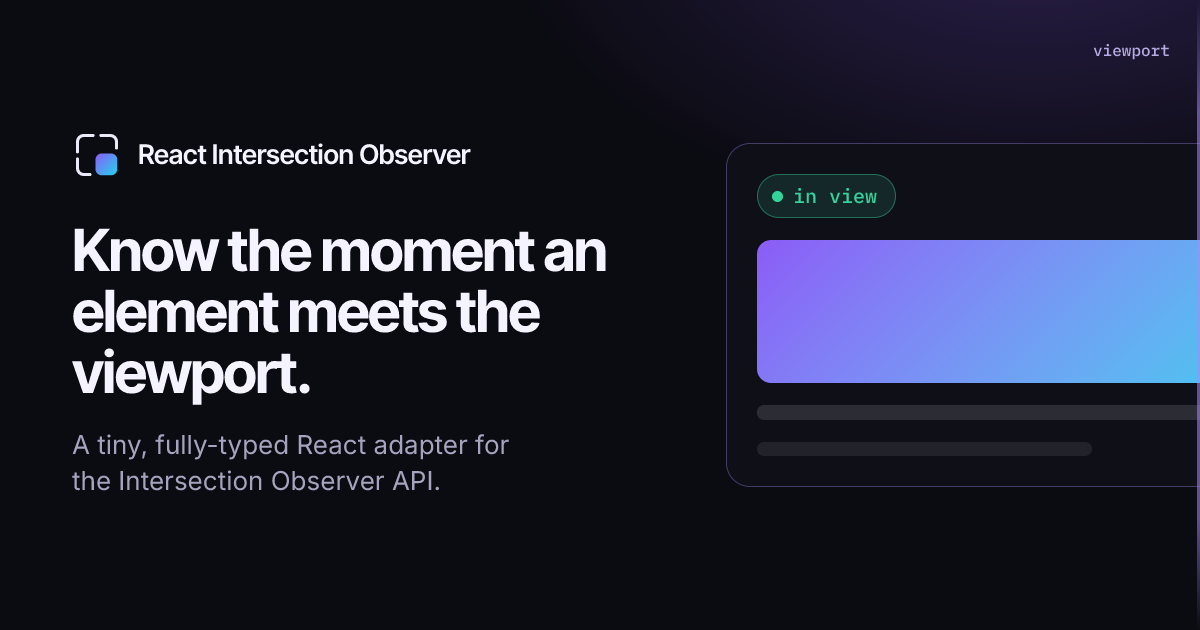
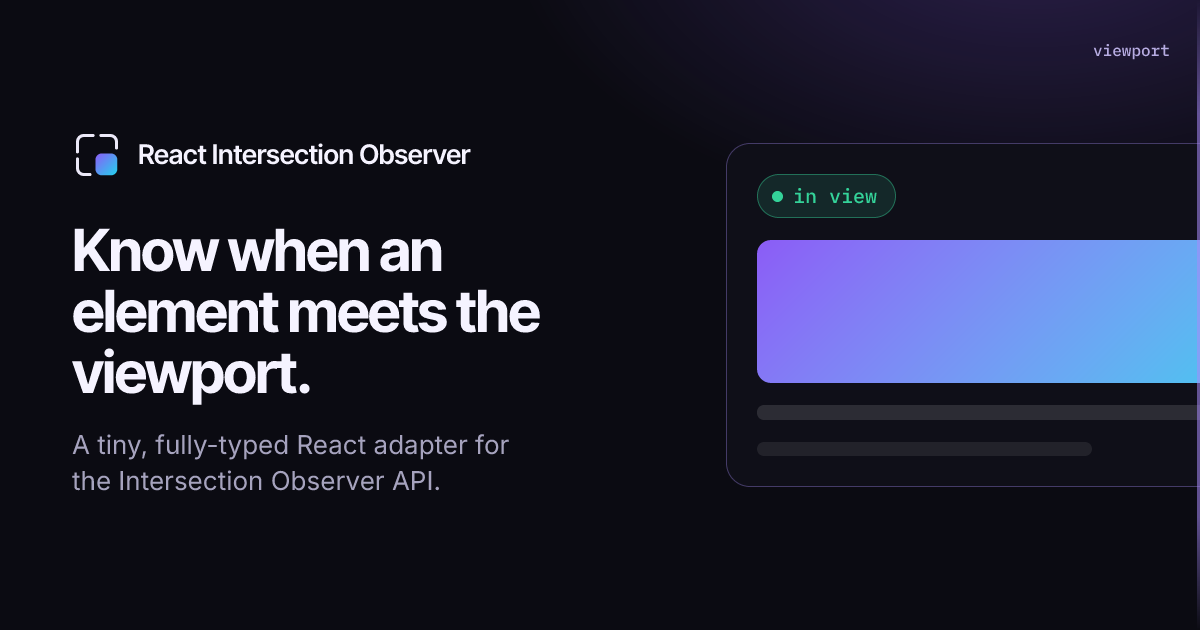
fix(docs): theme-aware landing panels + tighter headline (#780)
* fix(docs): make landing panels theme-aware + tighten the headline

The code, instrument, install, HUD, and tile panels were fixed dark in
both color modes, so in light mode they clashed with the page. Make
every panel follow the theme:

- Panel surfaces, text, hairlines, inset, and the focal highlight derive
  from the --color-* theme tokens (light surfaces in light mode, dark in
  dark).
- Syntax highlighting moves from inline colors to `.rio-tok--*` classes
  with a light palette by default and a dark override under
  `:root[data-theme="dark"]`, so code stays readable in both modes.

Also shorten the hero headline to "Know when an element meets the
viewport." (H1 + the OG card) so it wraps tighter.

Verified light and dark via computed styles + screenshots: light mode
now shows light panels with dark, high-contrast syntax; dark mode is
unchanged. biome clean, fallow exits 0, typecheck 0 errors, build OK.

* feat(docs): link "thebuilder" in the footer to GitHub

Make the "built by thebuilder" credit a link to the author's GitHub
profile, styled to stand out from the muted line with an accent hover.

---------

Changed region(s): [[0.185, 0.3619, 0.5242, 0.4524]]

diff --git a/apps/docs/pages/_home/home.css b/apps/docs/pages/_home/home.css
@@ -1,7 +1,9 @@
 /* ============================================================== */
 /* Landing page — React Intersection Observer                     */
-/* Page chrome follows Blume's theme; code + instrument panels are */
-/* a deliberate dark instrument surface in both color modes.       */
+/* Everything follows Blume's theme: chrome, panels, code, and     */
+/* instrument all adapt to light and dark. Tokens derive from the  */
+/* --color-* theme vars; the few that can't (code syntax, focal    */
+/* highlight) get an explicit dark override below.                 */
 /* ============================================================== */
 
 .rio-home {
@@ -12,18 +14,51 @@
   --rio-line-2: color-mix(in srgb, var(--color-foreground) 22%, transparent);
   --rio-surface: color-mix(in srgb, var(--color-foreground) 3.5%, transparent);
   --rio-surface-2: color-mix(in srgb, var(--color-foreground) 7%, transparent);
-  --rio-panel: #0d0d15;
-  --rio-panel-2: #14141f;
-  --rio-panel-fg: #ece9f8;
-  --rio-panel-muted: #a6a3be;
-  --rio-panel-line: color-mix(in srgb, #a78bfa 24%, transparent);
+
+  /* Panels: light surface in light mode, dark in dark, derived from theme. */
+  --rio-panel: color-mix(
+    in srgb,
+    var(--color-foreground) 4%,
+    var(--color-background)
+  );
+  --rio-panel-2: color-mix(
+    in srgb,
+    var(--color-foreground) 8%,
+    var(--color-background)
+  );
+  --rio-panel-inset: color-mix(
+    in srgb,
+    var(--color-foreground) 7%,
+    var(--color-background)
+  );
+  --rio-panel-fg: var(--color-foreground);
+  --rio-panel-muted: var(--color-muted-foreground);
+  --rio-panel-line: color-mix(in srgb, var(--rio-accent) 30%, transparent);
+  --rio-panel-hair: color-mix(in srgb, var(--color-foreground) 9%, transparent);
+
   --rio-violet: #a78bfa;
   --rio-emerald: #34d399;
   /* Dedicated button violet: darker/more saturated than the theme accent so
      white label text stays high-contrast in both light and dark modes. */
   --rio-btn: oklch(0.56 0.18 290);
   --rio-btn-hover: oklch(0.62 0.17 290);
-  --rio-focal: linear-gradient(135deg, #241f47 0%, #16294a 100%);
+
+  /* Focal highlight (target chip, logged tiles) and its text. */
+  --rio-focal: linear-gradient(
+    135deg,
+    color-mix(in srgb, #8b5cf6 16%, var(--color-background)),
+    color-mix(in srgb, #22d3ee 13%, var(--color-background))
+  );
+  --rio-focal-fg: var(--color-foreground);
+
+  /* Code syntax palette (light-mode values; dark overridden below). */
+  --rio-code-fg: #37324a;
+  --rio-code-k: #7c3aed;
+  --rio-code-f: #7c3aed;
+  --rio-code-s: #0f7a4d;
+  --rio-code-c: #86829a;
+  --rio-code-p: #0b6bb3;
+
   --rio-mono: var(
     --blume-font-mono,
     ui-monospace,
@@ -36,6 +71,18 @@
 
   color: var(--rio-fg);
   overflow-x: clip;
+}
+
+:root[data-theme="dark"] .rio-home {
+  --rio-panel-line: color-mix(in srgb, #a78bfa 24%, transparent);
+  --rio-focal: linear-gradient(135deg, #241f47 0%, #16294a 100%);
+  --rio-focal-fg: #f4f2ff;
+  --rio-code-fg: #d7d4e6;
+  --rio-code-k: #c4b5fd;
+  --rio-code-f: #a78bfa;
+  --rio-code-s: #8ee7a6;
+  --rio-code-c: #948fb0;
+  --rio-code-p: #7cc7ff;
 }
 
 .rio-home ::selection {
@@ -282,7 +329,7 @@
   align-items: center;
   gap: 0.5rem;
   padding: 0.7rem 0.7rem 0.7rem 0.9rem;
-  border-top: 1px solid color-mix(in srgb, #ffffff 6%, transparent);
+  border-top: 1px solid var(--rio-panel-hair);
 }
 
 .rio-install__cmd {
@@ -313,7 +360,7 @@
   height: 2.1rem;
   flex: none;
   border-radius: 8px;
-  border: 1px solid color-mix(in srgb, #ffffff 10%, transparent);
+  border: 1px solid var(--rio-panel-hair);
   background: var(--rio-panel-2);
   color: var(--rio-panel-muted);
   cursor: pointer;
@@ -428,10 +475,8 @@
   position: relative;
   height: 8.5rem;
   border-radius: 12px;
-  border: 1px solid color-mix(in srgb, #ffffff 8%, transparent);
-  background:
-    linear-gradient(color-mix(in srgb, #ffffff 3%, transparent), transparent),
-    #0a0a11;
+  border: 1px solid var(--rio-panel-hair);
+  background: var(--rio-panel-inset);
   overflow: hidden;
   margin-bottom: 1rem;
 }
@@ -476,7 +521,7 @@
   top: -1.5rem;
   font-family: var(--rio-mono);
   font-size: 0.62rem;
-  color: color-mix(in srgb, var(--rio-violet) 80%, white);
+  color: color-mix(in srgb, var(--rio-accent) 72%, var(--rio-panel-fg));
 }
 
 .rio-instrument__target {
@@ -493,7 +538,7 @@
   font-size: 0.78rem;
   border: 1px solid color-mix(in srgb, var(--rio-violet) 45%, transparent);
   background: var(--rio-focal);
-  color: #f4f2ff;
+  color: var(--rio-focal-fg);
   transition:
     box-shadow 0.3s ease,
     border-color 0.3s ease;
@@ -519,7 +564,7 @@
   gap: 0.5rem;
   font-family: var(--rio-mono);
   font-size: 0.76rem;
-  border-bottom: 1px solid color-mix(in srgb, #ffffff 6%, transparent);
+  border-bottom: 1px solid var(--rio-panel-hair);
   padding-bottom: 0.3rem;
 }
 
@@ -541,14 +586,14 @@
   color: var(--rio-emerald);
 }
 .rio-readout dd[data-tone="off"] {
-  color: color-mix(in srgb, var(--rio-panel-muted) 85%, white);
+  color: var(--rio-panel-muted);
 }
 
 .rio-instrument__bar,
 .rio-hud__bar {
   height: 5px;
   border-radius: 999px;
-  background: color-mix(in srgb, #ffffff 8%, transparent);
+  background: var(--rio-panel-hair);
   overflow: hidden;
 }
 
@@ -774,7 +819,7 @@
   font-size: 0.72rem;
   color: var(--rio-panel-muted);
   padding: 0.55rem 0.9rem;
-  border-bottom: 1px solid color-mix(in srgb, #ffffff 6%, transparent);
+  border-bottom: 1px solid var(--rio-panel-hair);
   background: var(--rio-panel-2);
 }
 
@@ -785,7 +830,7 @@
   font-family: var(--rio-mono);
   font-size: 0.82rem;
   line-height: 1.65;
-  color: #d7d4e6;
+  color: var(--rio-code-fg);
   tab-size: 2;
 }
 
@@ -798,8 +843,28 @@
   height: 8px;
 }
 .rio-code__pre::-webkit-scrollbar-thumb {
-  background: color-mix(in srgb, #ffffff 14%, transparent);
+  background: color-mix(in srgb, var(--color-foreground) 22%, transparent);
   border-radius: 999px;
+}
+
+/* Syntax token colors — theme-aware (values set on .rio-home + dark override). */
+.rio-tok--t {
+  color: var(--rio-code-fg);
+}
+.rio-tok--k {
+  color: var(--rio-code-k);
+}
+.rio-tok--f {
+  color: var(--rio-code-f);
+}
+.rio-tok--s {
+  color: var(--rio-code-s);
+}
+.rio-tok--c {
+  color: var(--rio-code-c);
+}
+.rio-tok--p {
+  color: var(--rio-code-p);
 }
 
 /* ------------------------------------------------------------- */
@@ -839,7 +904,7 @@
 .rio-tile[data-logged="true"] {
   border-color: color-mix(in srgb, var(--rio-emerald) 50%, transparent);
   background: var(--rio-focal);
-  color: #f2f1ff;
+  color: var(--rio-focal-fg);
 }
 
 .rio-tile__id {
@@ -872,7 +937,7 @@
 }
 
 .rio-tile[data-logged="true"] .rio-tile__index {
-  color: color-mix(in srgb, #ffffff 45%, transparent);
+  color: color-mix(in srgb, var(--rio-focal-fg) 55%, transparent);
 }
 
 .rio-impr__panel {
@@ -1075,6 +1140,18 @@
 .rio-footer__brand span {
   font-size: 0.82rem;
   color: var(--color-muted-foreground);
+}
+
+.rio-footer__brand a {
+  color: var(--color-foreground);
+  text-decoration: none;
+  transition: color 0.15s ease;
+}
+
+.rio-footer__brand a:hover {
+  color: var(--rio-accent);
+  text-decoration: underline;
+  text-underline-offset: 3px;
 }
 
 .rio-footer__nav {

diff --git a/apps/docs/pages/_home/primitives.tsx b/apps/docs/pages/_home/primitives.tsx
@@ -318,20 +318,15 @@ export function Icon({
 }
 
 /* ------------------------------------------------------------------ */
-/* Code rendering — minimal, deliberate token colors on the dark panel */
+/* Code rendering — token kinds map to theme-aware colors in home.css   */
+/* (`.rio-tok--*`), so syntax stays readable in light and dark.         */
 /* ------------------------------------------------------------------ */
 
-const CODE_COLOR = {
-  t: "#d7d4e6", // plain text
-  k: "#c4b5fd", // keyword
-  f: "#a78bfa", // function / hook
-  s: "#8ee7a6", // string
-  c: "#948fb0", // comment
-  p: "#7cc7ff", // property / jsx attr
-} as const;
+// t: plain · k: keyword · f: function/hook · s: string · c: comment · p: prop
+type TokenKind = "t" | "k" | "f" | "s" | "c" | "p";
 
 /** A single token: [kind, value]. */
-export type Tk = [kind: keyof typeof CODE_COLOR, value: string];
+export type Tk = [kind: TokenKind, value: string];
 
 /** One line of code is a list of tokens. Convenience token builders: */
 export const c = {
@@ -365,9 +360,9 @@ export function Code({
               {line.length === 0 ? "" : null}
               {line.map((token, j) => (
                 <span
+                  className={`rio-tok rio-tok--${token[0]}`}
                   // biome-ignore lint/suspicious/noArrayIndexKey: static tokens
                   key={j}
-                  style={{ color: CODE_COLOR[token[0]] }}
                 >
                   {token[1]}
                 </span>

diff --git a/apps/docs/pages/_home/Landing.tsx b/apps/docs/pages/_home/Landing.tsx
@@ -68,9 +68,7 @@ function Hero() {
     <header className="rio-section rio-hero" ref={ref}>
       <div className="rio-hero__grid">
         <div className="rio-hero__copy">
-          <h1 className="rio-h1">
-            Know the moment an element meets the viewport.
-          </h1>
+          <h1 className="rio-h1">Know when an element meets the viewport.</h1>
           <p className="rio-lead">
             A tiny, fully-typed React adapter for the Intersection Observer API.
             Reveal on scroll, lazy-load, track impressions, and build infinite
